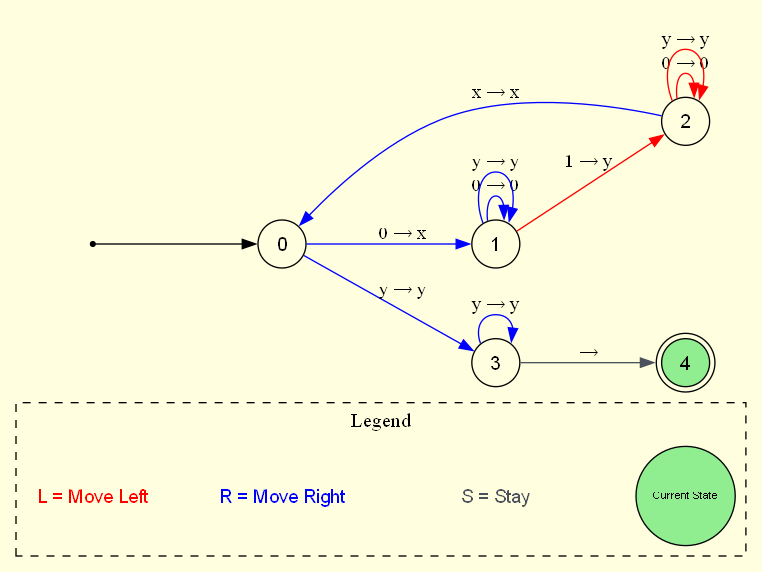
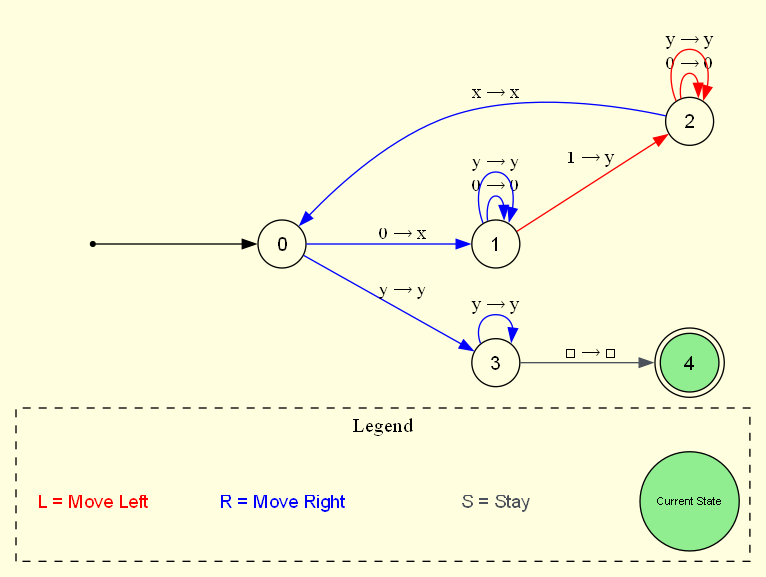
Added another tm, added bg color on verdict, fixed fa graph reorientation

diff --git a/src/turing_machine.cpp b/src/turing_machine.cpp
@@ -9,12 +9,12 @@
 const std::set<move_direction> move_direction_set = {move_direction::left, move_direction::right, move_direction::stationary};
 
 turing_machine::turing_machine() :
-num_states(1), tape_alphabet({' '}), initial_state(0), blank(' '), final_states({0}), transition_function(1), curr_state(0), read_head(0), tape({' '}){
+num_states(1), tape_alphabet({' '}), initial_state(0), blank(' '), final_states({0}), transition_function(1), curr_state(0), read_head(0), tape({' '}), extracted_to_dot(false){
     validate_contraints();
 }
 
 turing_machine::turing_machine(const int _num_states, const std::set<char>& _input_alphabet, const std::set<char>& _tape_alphabet, const int _initial_state, const char _blank, const std::set<int>& _final_states) :
-num_states(_num_states), input_alphabet(_input_alphabet), tape_alphabet(_tape_alphabet), initial_state(_initial_state), blank(_blank), final_states(_final_states), transition_function(_num_states), curr_state(_initial_state), read_head(0), tape({_blank}){
+num_states(_num_states), input_alphabet(_input_alphabet), tape_alphabet(_tape_alphabet), initial_state(_initial_state), blank(_blank), final_states(_final_states), transition_function(_num_states), curr_state(_initial_state), read_head(0), tape({_blank}), extracted_to_dot(false){
     validate_contraints();
 }
 
@@ -147,83 +147,117 @@ std::array<char, MINI_TAPE_SIZE> turing_machine::get_mini_tape_contents() const{
     return mini_tape;
 }
 
-void turing_machine::export_to_graphviz(const std::string& filename) const {
-    std::ofstream dot(filename);
-    if (!dot) {
-        std::cerr << "ERROR: Cannot open " << filename << " for writing\n";
-    }
+void turing_machine::export_to_graphviz(const std::string& filename){
+    if(!extracted_to_dot){
+        extracted_to_dot = true;
 
-    dot << "digraph TuringMachine {\n";
-    dot << "bgcolor=\"lightyellow\";\n";
-    dot << "  rankdir=LR;\n";
-    dot << "  fontsize=14;\n";
-    dot << "  node [shape=circle, fontname=Helvetica];\n";
-
-    dot << R"(
-  subgraph cluster_legend {
-    label="Legend";
-    fontsize=15;
-    style=dashed;
-    margin=8;
-    rank=sink;
-
-    Lmove [label="L = Move Left", shape=plaintext, fontcolor=red];
-    Rmove [label="R = Move Right", shape=plaintext, fontcolor=blue];
-    Smove [label="S = Stay", shape=plaintext, fontcolor="#4c525c"];
-    Curr [label="Current State", shape=circle, style=filled, fillcolor=lightgreen, fontsize=8];
-
-    // Invisible edges for vertical stacking
-    Lmove -> Rmove [style=invis];
-    Rmove -> Smove [style=invis];
-    Smove -> Curr  [style=invis];
-  }
-)";
-
-    for (int f : final_states) {
-        dot << "  " << f << " [shape=doublecircle];\n";
-    }
-
-    dot << "  start [shape=point];\n";
-    dot << "  start -> " << initial_state << ";\n";
-
-    dot << "  " << curr_state << " [style=filled, fillcolor=lightgreen];\n";
-
-    auto direction_to_string = [](move_direction dir) {
-        switch(dir) {
-            case move_direction::left: return "L";
-            case move_direction::right: return "R";
-            case move_direction::stationary: return "S";
-            default: return "?";
+        std::ofstream dot(filename);
+        if (!dot) {
+            std::cerr << "ERROR: Cannot open " << filename << " for writing\n";
         }
-    };
-
-    for (int state = 0; state < num_states; ++state) {
-        for (const auto& [read_symbol, trans] : transition_function[state]) {
-            int next_state;
-            char write_symbol;
-            move_direction dir;
-            std::tie(next_state, write_symbol, dir) = trans;
-
-            std::string color;
-            switch (dir) {
-                case move_direction::left:       color = "red"; break;
-                case move_direction::right:      color = "blue"; break;
-                case move_direction::stationary: color = "\"#4c525c\""; break;
-                default:                         color = "black"; break;
+    
+        dot << "digraph TuringMachine {\n";
+        dot << "bgcolor=\"lightyellow\";\n";
+        dot << "  rankdir=LR;\n";
+        dot << "  fontsize=14;\n";
+        dot << "  node [shape=circle, fontname=Helvetica];\n";
+    
+        dot << R"(
+    subgraph cluster_legend {
+        label="Legend";
+        fontsize=15;
+        style=dashed;
+        margin=8;
+        rank=sink;
+    
+        Lmove [label="L = Move Left", shape=plaintext, fontcolor=red];
+        Rmove [label="R = Move Right", shape=plaintext, fontcolor=blue];
+        Smove [label="S = Stay", shape=plaintext, fontcolor="#4c525c"];
+        Curr [label="Current State", shape=circle, style=filled, fillcolor=lightgreen, fontsize=8];
+    
+        // Invisible edges for vertical stacking
+        Lmove -> Rmove [style=invis];
+        Rmove -> Smove [style=invis];
+        Smove -> Curr  [style=invis];
+    }
+    )";
+    
+        for (int f : final_states) {
+            dot << "  " << f << " [shape=doublecircle];\n";
+        }
+    
+        dot << "  start [shape=point];\n";
+        dot << "  start -> " << initial_state << ";\n";
+    
+        // dot << "  " << curr_state << " [style=filled, fillcolor=lightgreen];\n";
+    
+        auto direction_to_string = [](move_direction dir) {
+            switch(dir) {
+                case move_direction::left: return "L";
+                case move_direction::right: return "R";
+                case move_direction::stationary: return "S";
+                default: return "?";
             }
+        };
+    
+        for (int state = 0; state < num_states; ++state) {
+            for (const auto& [read_symbol, trans] : transition_function[state]) {
+                int next_state;
+                char write_symbol;
+                move_direction dir;
+                std::tie(next_state, write_symbol, dir) = trans;
+    
+                std::string color;
+                switch (dir) {
+                    case move_direction::left:       color = "red"; break;
+                    case move_direction::right:      color = "blue"; break;
+                    case move_direction::stationary: color = "\"#4c525c\""; break;
+                    default:                         color = "black"; break;
+                }
 
-            dot << "  " << state << " -> " << next_state
-                << " [label=\""
-                << read_symbol << " → " << write_symbol
-                << "\", color=" << color << "];\n";
+                std::string temp_read_str = {read_symbol};
+                std::string temp_write_str = {write_symbol};
+                std::string temp_blank_str = "□";
+    
+                dot << "  " << state << " -> " << next_state
+                    << " [label=\""
+                    << (read_symbol == blank ? temp_blank_str : temp_read_str) << " → " << (write_symbol == blank ? temp_blank_str : temp_write_str)
+                    << "\", color=" << color << "];\n";
+            }
         }
+    
+        dot << "}\n";
+        dot.close();
+    
+        std::string cmd = "dot -Tdot " + filename + " -o " + DOT_POS_FILE_PATH;
+        system(cmd.c_str());
+        
+        // dot.open(filename);
+        // dot << "  " << curr_state << " [style=filled, fillcolor=lightgreen];\n";
+        // dot.close();
+        export_to_graphviz(filename);
+        
+        // std::string cmd = "dot -Tpng " + filename + " -o " + TM_FA_IMAGE_PATH;
+        // system(cmd.c_str());
     }
+    else{
+        std::ofstream dot(filename);
+        std::ifstream dot_pos(DOT_POS_FILE_PATH);
 
-    dot << "}\n";
-    dot.close();
+        std::string line;
+        while(std::getline(dot_pos, line)){
+            if(line == "}"){
+                dot << "  " << curr_state << " [style=filled, fillcolor=lightgreen];\n";
+            }
+            dot << line << "\n";
+        }
 
-    std::string cmd = "dot -Tpng " + filename + " -o " + TM_FA_IMAGE_PATH;
-    system(cmd.c_str());
+        dot_pos.close();
+        dot.close();
+
+        std::string cmd = "dot -Tpng " + filename + " -o " + TM_FA_IMAGE_PATH;
+        system(cmd.c_str());
+    }
 }
 
 turing_machine read_input_turing_machine(){

diff --git a/src/simulator.cpp b/src/simulator.cpp
@@ -7,19 +7,6 @@
 #include "tape_box.hpp"
 
 bool simulator::simulate_turing_machine() const{
-    // turing_machine tm(5, {'0', '1'}, {'0', '1', 'x', 'y', ' '}, 0, ' ', {4});
-    // tm.add_transition(0, '0', 1, 'x', move_direction::right);
-    // tm.add_transition(0, 'y', 3, 'y', move_direction::right);
-    // tm.add_transition(1, '0', 1, '0', move_direction::right);
-    // tm.add_transition(1, '1', 2, 'y', move_direction::left);
-    // tm.add_transition(1, 'y', 1, 'y', move_direction::right);
-    // tm.add_transition(2, '0', 2, '0', move_direction::left);
-    // tm.add_transition(2, 'x', 0, 'x', move_direction::right);
-    // tm.add_transition(2, 'y', 2, 'y', move_direction::left);
-    // tm.add_transition(3, 'y', 3, 'y', move_direction::right);
-    // tm.add_transition(3, ' ', 4, ' ', move_direction::stationary);
-    // turing_machine tm = get_tm_from_file();
-
     turing_machine tm = read_input_turing_machine();
 
     tm.export_to_graphviz(DOT_FILE_PATH);
@@ -56,6 +43,8 @@ bool simulator::simulate_turing_machine() const{
         throw std::runtime_error("Failed to load the FA texture");
     }
 
+    sf::Color curr_bg_color = BG_NEUTRAL_COLOR;
+
     std::vector<tape_box> tape_boxes;
     float base_xpos = 200.0f, base_ypos = 100.0f;
     float xpos = base_xpos, ypos = base_ypos;
@@ -69,7 +58,7 @@ bool simulator::simulate_turing_machine() const{
     for(int i = 0; i < 4; i++){
         dummy_boxes.emplace_back(sf::Vector2f(TAPE_BOX_SIZE, TAPE_BOX_SIZE));
         dummy_boxes[i].setOrigin(dummy_boxes[i].getSize() / 2.0f);
-        dummy_boxes[i].setFillColor(BG_COLOR);
+        dummy_boxes[i].setFillColor(curr_bg_color);
     }
     dummy_boxes[0].setPosition(base_xpos, base_ypos);
     dummy_boxes[1].setPosition(base_xpos - TAPE_BOX_SIZE, base_ypos);
@@ -98,7 +87,7 @@ bool simulator::simulate_turing_machine() const{
     bool paused = true;
     bool verdict_passed = false;
 
-    simulation_window.clear(BG_COLOR);
+    simulation_window.clear(curr_bg_color);
     for(auto& box : tape_boxes){
         box.draw(simulation_window);
     }
@@ -150,7 +139,7 @@ bool simulator::simulate_turing_machine() const{
         }
 
         if(paused){
-            simulation_window.clear(BG_COLOR);
+            simulation_window.clear(curr_bg_color);
             for(auto& box : tape_boxes){
                 box.draw(simulation_window);
             }
@@ -198,10 +187,18 @@ bool simulator::simulate_turing_machine() const{
                 verdict_passed = true;
 
                 if(tm.accepting()){
+                    curr_bg_color = BG_ACCEPTED_COLOR;
+
                     std::cout << "Accepted" << std::endl;
                 }
                 else{
+                    curr_bg_color = BG_REJECTED_COLOR;
+
                     std::cout << "Rejected" << std::endl;
+                }
+
+                for(int i = 0; i < 4; i++){
+                    dummy_boxes[i].setFillColor(curr_bg_color);
                 }
             }
         }
@@ -226,7 +223,7 @@ bool simulator::simulate_turing_machine() const{
             tape_boxes[i].transform();
         }
 
-        simulation_window.clear(BG_COLOR);
+        simulation_window.clear(curr_bg_color);
         for(auto& box : tape_boxes){
             box.draw(simulation_window);
         }

diff --git a/include/constants.hpp b/include/constants.hpp
@@ -13,13 +13,16 @@ inline constexpr const char *TAPE_TEXTURE_PATH          = "../res/textures/tape_
 inline constexpr const char *TAPE_CENTER_TEXTURE_PATH   = "../res/textures/tape_box_5.png";
 inline constexpr const char *READ_HEAD_TEXTURE          = "../res/textures/read_head_0.png";
 inline constexpr const char *DOT_FILE_PATH              = "../output/tm.dot";
+inline constexpr const char *DOT_POS_FILE_PATH          = "../output/tm_pos.dot";
 inline constexpr const char *TM_FA_IMAGE_PATH           = "../output/tm.png";
 
 inline constexpr float TAPE_BOX_SIZE            = 100.0f;
 inline constexpr unsigned TAPE_BOX_TEXT_SIZE    = 45u;
 inline constexpr char BLANK_SYM                 = ' ';
 
-inline const sf::Color BG_COLOR                 = sf::Color(0x99E6FFFF);
+inline const sf::Color BG_NEUTRAL_COLOR         = sf::Color(0x99E6FFFF);
+inline const sf::Color BG_ACCEPTED_COLOR        = sf::Color(0x8cF569FF);
+inline const sf::Color BG_REJECTED_COLOR        = sf::Color(0xF0675DFF);
 inline const sf::Color TAPE_TEXT_COLOR          = sf::Color(0x442009FF);
 inline const sf::Color FA_BOX_OUTLINE_COLOR     = sf::Color(0x111184FF);
 

diff --git a/include/turing_machine.hpp b/include/turing_machine.hpp
@@ -51,6 +51,8 @@ private:
     std::deque<char>                    tape;
     int                                 read_head;
 
+    bool                                extracted_to_dot;
+
     void validate_contraints();
     
     public:
@@ -65,7 +67,7 @@ private:
     std::tuple<int, char, move_direction> make_move();
     std::array<char, MINI_TAPE_SIZE> get_mini_tape_contents() const;
 
-    void export_to_graphviz(const std::string& filename) const;
+    void export_to_graphviz(const std::string& filename);
 };
 
 turing_machine read_input_turing_machine();
